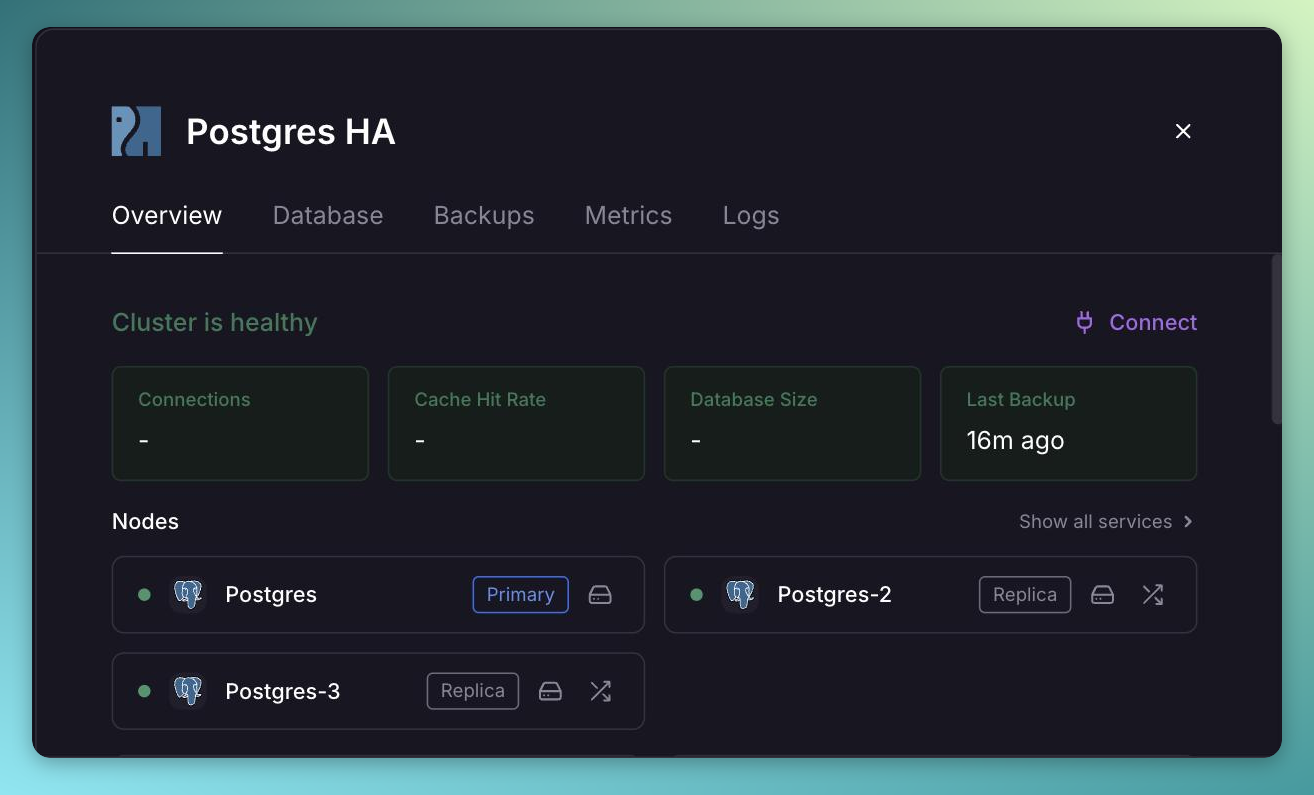
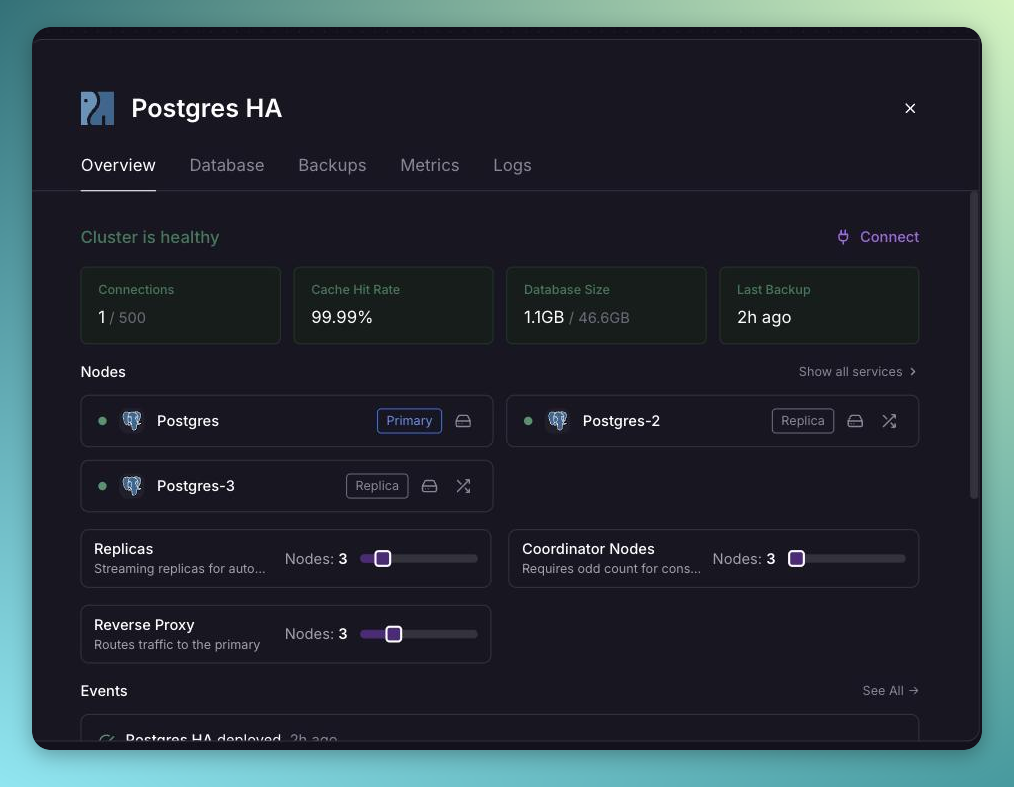
Retake the Postgres HA overview screenshot with populated cluster stats

diff --git a/content/docs/databases/postgresql-ha.md b/content/docs/databases/postgresql-ha.md
@@ -98,7 +98,7 @@ After all deployments reach a running state, allow approximately 2 minutes for P
 <Image src="/images/postgresql-ha-overview.png"
 alt="Healthy Postgres HA cluster overview showing the primary and replica nodes"
 layout="intrinsic"
-width={1314} height={795} quality={100} />
+width={1014} height={787} quality={100} />
 
 ## Failover
 
